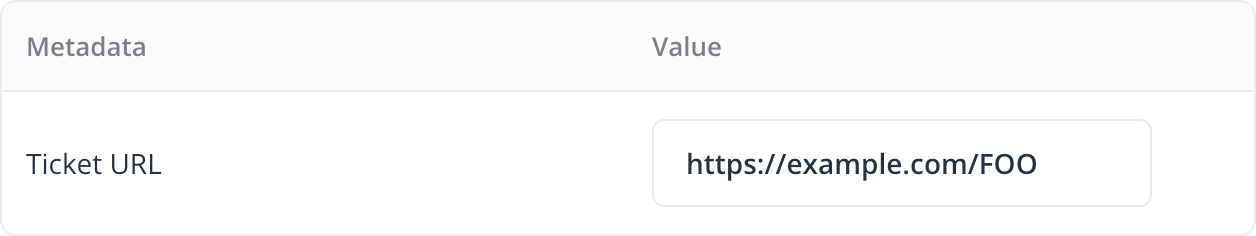
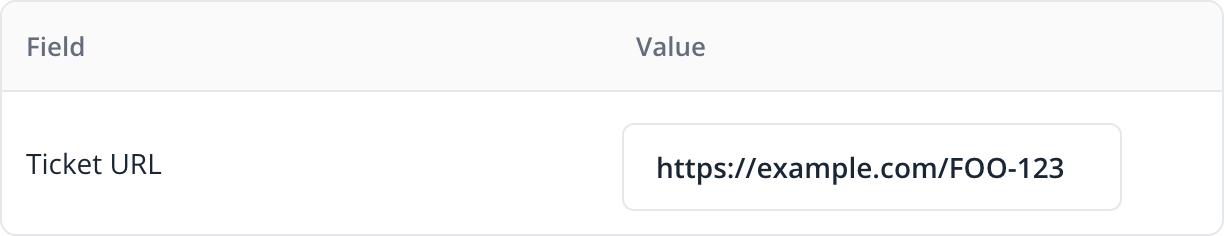
docs: Update metadata/custom-fields screenshots. Fix broken links (#4534)

diff --git a/frontend/web/components/metadata/MetadataPage.tsx b/frontend/web/components/metadata/MetadataPage.tsx
@@ -115,14 +115,14 @@ const MetadataPage: FC<MetadataPageType> = ({ organisationId, projectId }) => {
         </Button>
       </Row>
       <p className='fs-small lh-sm'>
-        Manage custom fields for selected core identities in your project{' '}
+        Add custom fields to features, segments, environments and projects.{' '}
         <Button
           theme='text'
           target='_blank'
-          href='https://docs.flagsmith.com/system-administration/custom-fields/'
+          href='https://docs.flagsmith.com/advanced-use/custom-fields/'
           className='fw-normal'
         >
-          Learn more.
+          Learn more
         </Button>
       </p>
       <FormGroup className='mt-4'>

diff --git a/frontend/web/components/metadata/AddMetadataToEntity.tsx b/frontend/web/components/metadata/AddMetadataToEntity.tsx
@@ -246,10 +246,10 @@ const AddMetadataToEntity: FC<AddMetadataToEntityType> = ({
           }}
           renderNoResults={
             <FormGroup>
-              No custom fields configured for {entity} entity. Add custom fields
+              No custom fields configured for {entity}s. Add custom fields
               in your{' '}
               <a
-                href={`/project/${projectId}/settings?tab=metadata`}
+                href={`/project/${projectId}/settings?tab=custom-fields`}
                 target='_blank'
                 rel='noreferrer'
               >
